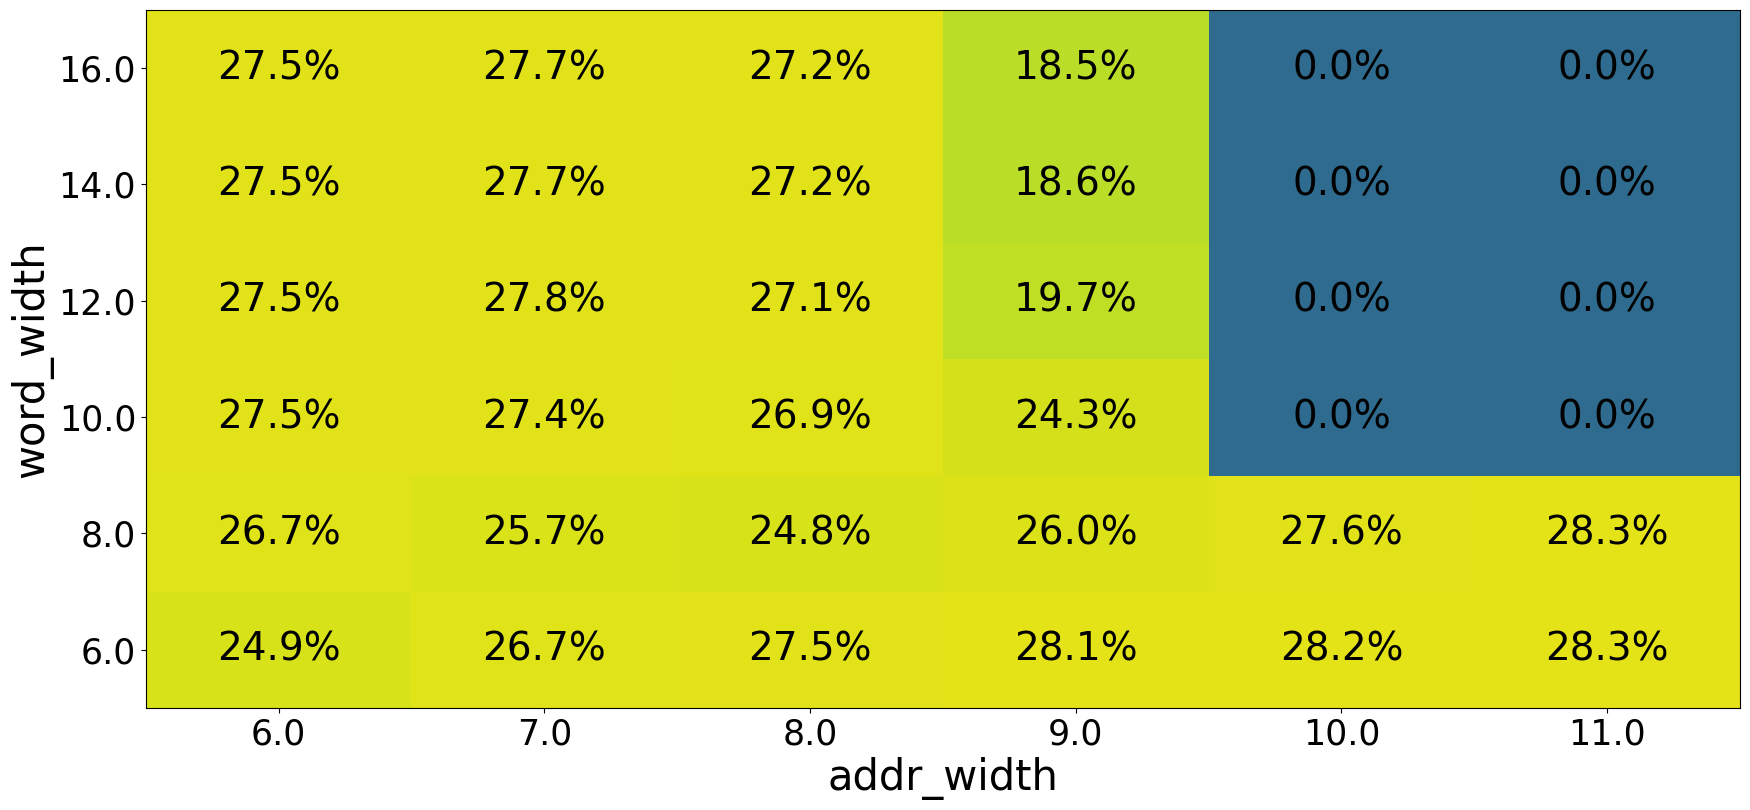
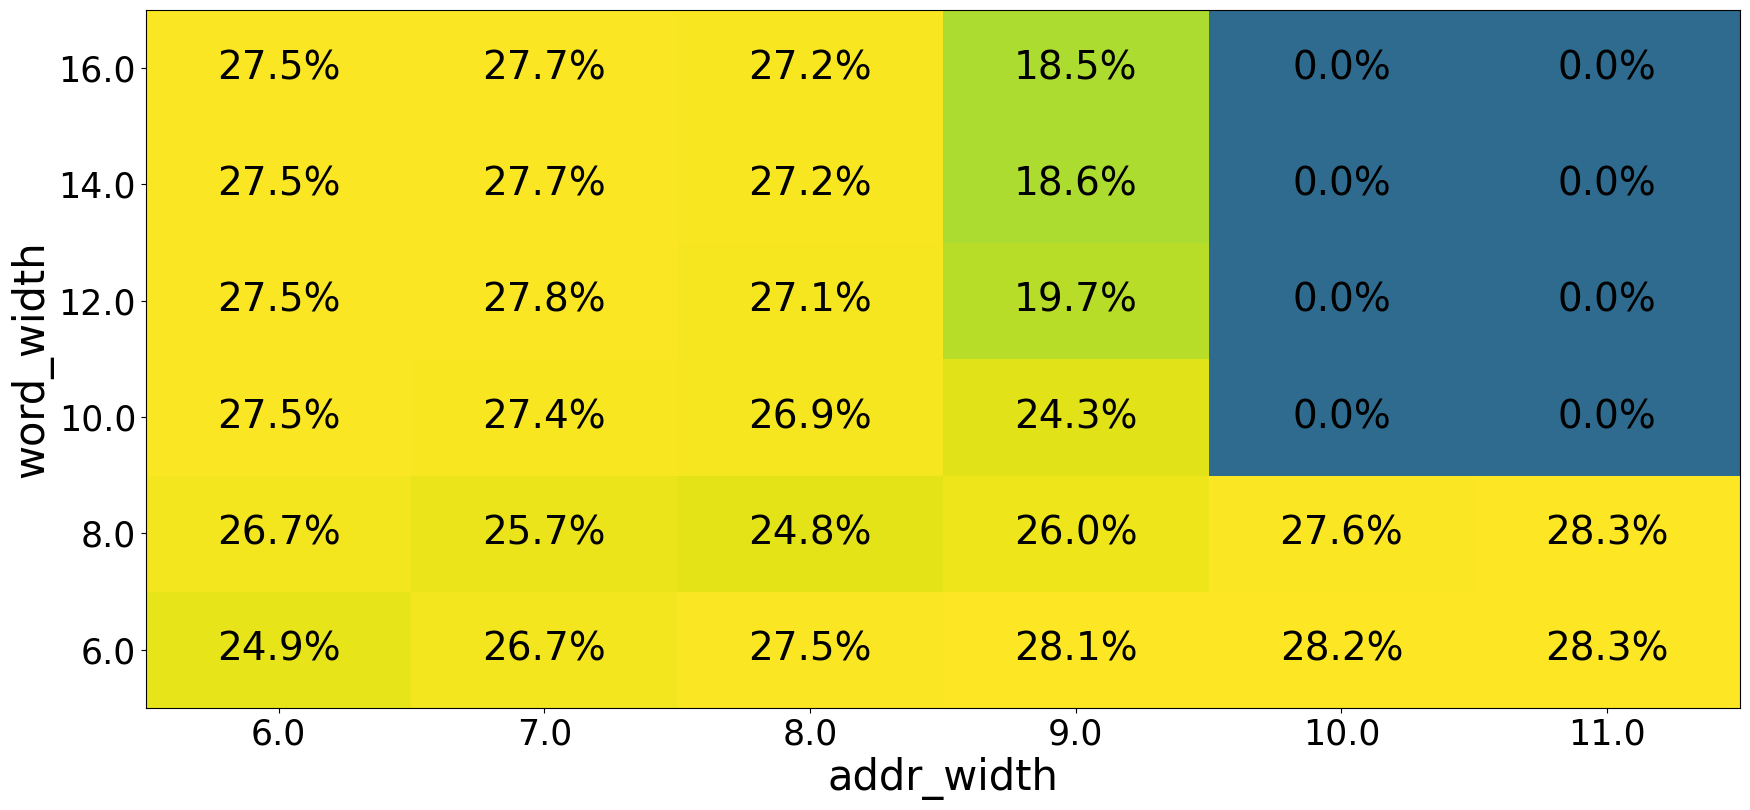
m

Changed region(s): [[0.0617, 0.0, 0.4011, 0.5864], [0.3703, 0.5864, 1.0, 0.8951]]

diff --git a/evaluation/rec/lookup/scripts/plot_improvement.py b/evaluation/rec/lookup/scripts/plot_improvement.py
@@ -95,15 +95,22 @@ def main() -> int:
         xlabel=XLABEL,
         ylabel=YLABEL,
         # Colour scheme for the RMSRE-reduction heatmap: viridis (not the reversed
-        # map the error heatmaps use, so a larger value reads brighter) with a low
-        # PowerNorm gamma. The gamma of 0.25 stretches the colour range over the
-        # high end where the improvements cluster (~18-28%), giving the cells more
-        # visible contrast than the default 0.7. The map is truncated at its low
-        # end (see truncated_viridis) so the 0.0% cells sit on a readable blue
-        # instead of near-black violet. plot_heatmap passes this through
-        # plt.get_cmap, which returns a Colormap object unchanged.
+        # map the error heatmaps use, so a larger value reads brighter). The map is
+        # truncated at its low end (see truncated_viridis) so the 0.0% cells sit on
+        # a readable blue instead of near-black violet; plot_heatmap passes this
+        # through plt.get_cmap, which returns a Colormap object unchanged.
+        #
+        # vmax_factor=1.0 drops the default headroom so the largest cell reaches
+        # viridis' yellow: the data then spans the full blue -> green -> yellow
+        # sweep instead of stopping in the blue-green half. A convex PowerNorm
+        # (gamma > 1) then spreads the high band the improvements cluster in
+        # (~18-28%) across that sweep, so neighbouring values stay distinguishable:
+        # at gamma=2.0 the 0% cells read blue, ~18-20% green and ~27-28% yellow,
+        # giving a CIELAB dE ~70 between the 18% and 28% cells (vs ~13 at the
+        # original concave gamma=0.25).
         cmap_name=truncated_viridis(),
-        gamma=0.25,
+        gamma=0.5,
+        vmax_factor=1.0,
         cell_width=2.6,
     )
     return 0

diff --git a/evaluation/rec/lookup/scripts/plot.py b/evaluation/rec/lookup/scripts/plot.py
@@ -45,6 +45,7 @@ def load_triplets(filepath):
 
 
 def plot_heatmap(filepath, output_path=None, title=None, xlabel="x", ylabel="y", cmap_name='viridis_r', gamma=0.7,
+				 vmax_factor=1.3,
 				 fontsize_data=28, fontsize_labels=30, fontsize_ticks=25, cell_width=1.8, cell_height=1.2):
 	triplets = load_triplets(filepath)
 
@@ -60,7 +61,11 @@ def plot_heatmap(filepath, output_path=None, title=None, xlabel="x", ylabel="y",
 		data[y_idx[y], x_idx[x]] = v * VALUE_FACTOR
 
 	vmin = np.nanmin(data)
-	vmax = np.nanmax(data)*1.3	# Adjust for better image
+	# Headroom above the largest cell so the top of the colour range is not fully
+	# saturated (tuned for the error/resource heatmaps). Callers that want the
+	# data to span the whole colour map (e.g. reaching viridis' yellow) pass
+	# vmax_factor=1.0.
+	vmax = np.nanmax(data)*vmax_factor
 
 	linear = False
 	cmap = plt.get_cmap(cmap_name)
